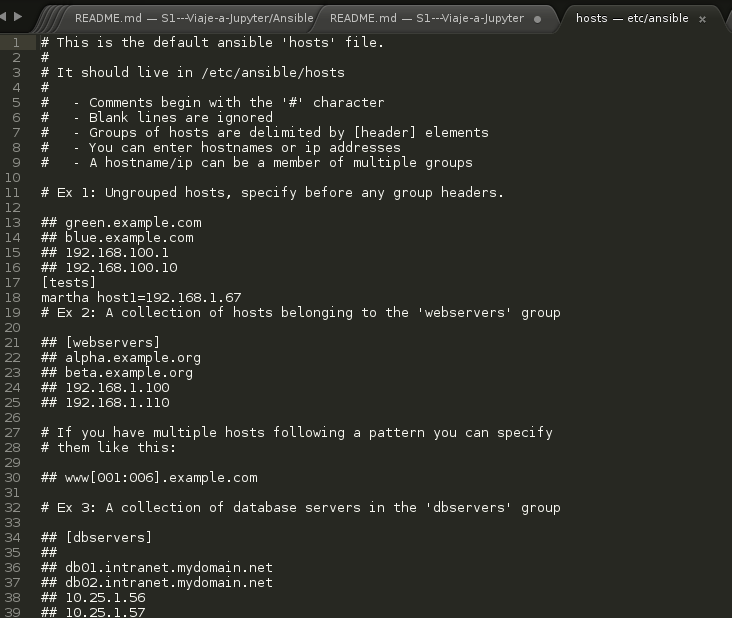
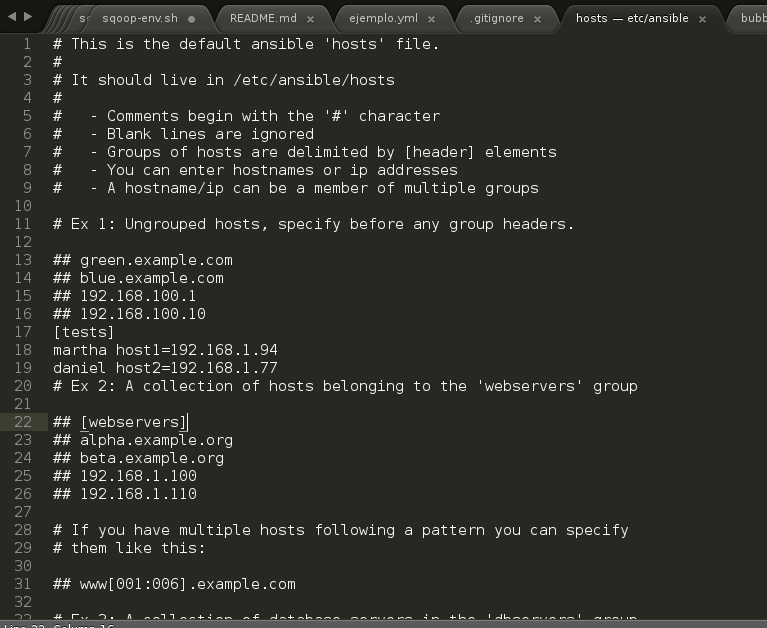
Adding Playbook

diff --git a/README.md b/README.md
@@ -1,6 +1,5 @@
 # Ansible, creación de Playbook para la automatización de ordenes de Docker
 
-## Ay Dios no sé cómo se hace esto, pero vamo a darle!
 
  Para este ejemplo estamos ocupando *CentOS 7*
 
@@ -19,15 +18,31 @@ $ ssh-copy-id usuario@[host o ip]
 ```
 [tests]
 martha host1=192.168.1.67
+daniel host2=192.168.1.77
 ```
 * Así como lo muestra la siguente imagen(Las líneas que no están comentadas)
 ![alt text](https://github.com/Dauzy/S1---Viaje-a-Jupyter/blob/martha_cr/imagen1.png)
 
-## 4. Ahora empecemos  hacer uso de comandos básicos de Ansible
+## 4.- Ahora empecemos  hacer uso de comandos básicos de Ansible
 ```
-ansible -m ping all
+$ ansible -m ping all
 ```
 * La salida debería ser la  siguiente, así como lo muestra la imagen
 ![alt text](https://github.com/Dauzy/S1---Viaje-a-Jupyter/blob/martha_cr/imagen2.png)
+## 5.- Ahora haremos un ejemplo de un Playbook (El archivo que generemos debe ir con la extención .yml)
+```YAML
+---
+- hosts: [tests] # AQUÍ ESPECIFICAMOS AL HOST O GRUPO DE HOST 
+  remote_user: root # USUARIO QUE OCUPAMOS PARA EJECUTAR LAS TAREA
+  tasks:
+    - name: Ensure the Docker daemon has started # NOMBRE DE LATAREA
+      service: name=docker state=started #  SERVICIO QUE QUEREMOS LEVANTAR
+      become: yes 
+```
+## 6.- Ahora ejecutamos nuestro Playbook
+```
+ansible-playbook nombre_playbook.yml
+```
+
 
 
